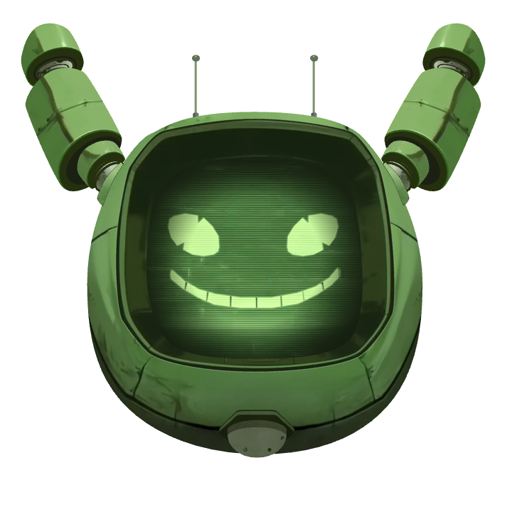
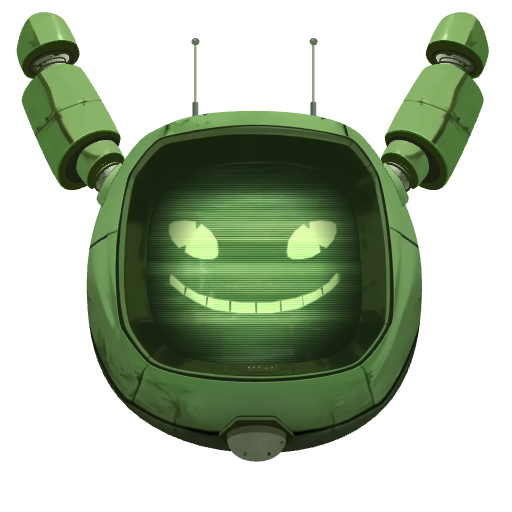
feat(narration): introduce the presenter properly in auto-mode
The narrated intro on slide 2 was one sentence; it now covers Mikkel's role
as Innovation Director at Consensus, the philosophy-to-developer path, the
Master in IT Management, and frames the cross-section between disciplines as
where the talk lives. New 35s speech asset with word-timed captions; the
slide's mascot clip is re-rendered in lip-sync from it.

The mascot pass also reconciled seven pre-existing stale entries (slides
5-11 had drifted one slide number after an earlier insertion), so their
clips are re-issued under corrected names. Slide 4's word-timed captions
are preserved as-is.

diff --git a/narration/00-intro.md b/narration/00-intro.md
@@ -9,8 +9,15 @@ is actually happening is most of what I want to talk about today.
 
 <!-- 2. statement — Hi, I'm Mikkel. -->
 
-Hi, I'm Mikkel. I build software at Consensus, and for the past year I have been
-building it in a way that would have been unrecognisable to me two years ago.
+Hi, I'm Mikkel. I'm the Innovation Director at Consensus, which means my job is
+to push the innovative factor in our products forward — to spot what is about to
+change, and make sure we are on the right side of it. I got here sideways: I
+studied philosophy before I became a developer, added a Master in IT Management
+along the way, and I have always cared as much about the product as the code. So
+I work in the cross-section between disciplines — and that cross-section is
+exactly where this talk lives. For the past year I have been building software
+in a way that would have been unrecognisable to me two years ago, and I want to
+show you what that looks like.
 
 ---
 
